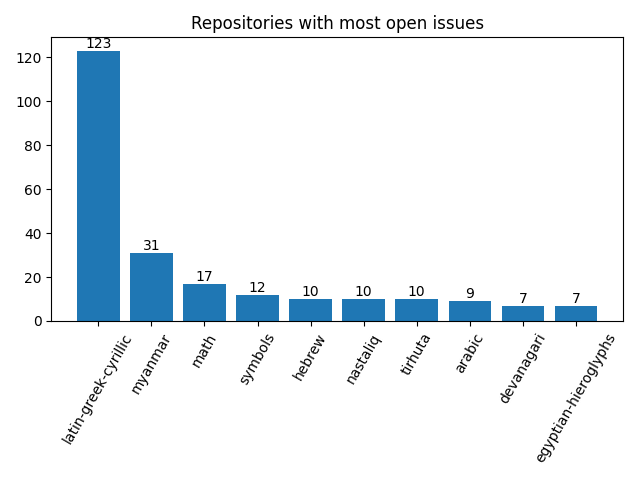
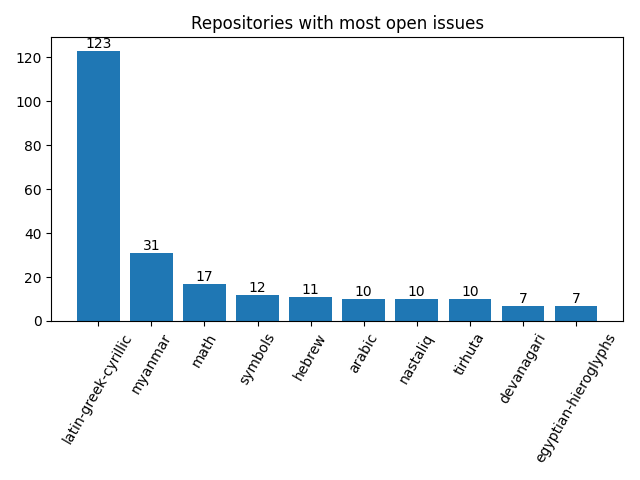
Apply automatic changes

diff --git a/docs/analytics.html b/docs/analytics.html
@@ -84,8 +84,8 @@ td .material-icons { display:inline-flex; vertical-align: top; font-size:1.1rem;
 						</tr>
 						<tr>
 							<td>Apr</td>
-							<td>7</td>
-							<td>3</td>
+							<td>11</td>
+							<td>5</td>
 						</tr>
 					</table>
 				</div>
@@ -129,6 +129,12 @@ td .material-icons { display:inline-flex; vertical-align: top; font-size:1.1rem;
 							<td>
 								<a href="http://github.com/notofonts/hebrew/issues">hebrew</a>
 							</td>
+							<td>11</td>
+						</tr>
+						<tr>
+							<td>
+								<a href="http://github.com/notofonts/arabic/issues">arabic</a>
+							</td>
 							<td>10</td>
 						</tr>
 						<tr>
@@ -142,12 +148,6 @@ td .material-icons { display:inline-flex; vertical-align: top; font-size:1.1rem;
 								<a href="http://github.com/notofonts/tirhuta/issues">tirhuta</a>
 							</td>
 							<td>10</td>
-						</tr>
-						<tr>
-							<td>
-								<a href="http://github.com/notofonts/arabic/issues">arabic</a>
-							</td>
-							<td>9</td>
 						</tr>
 						<tr>
 							<td>
@@ -176,13 +176,13 @@ td .material-icons { display:inline-flex; vertical-align: top; font-size:1.1rem;
 				<tr>
 					<td>1</td>
 					<td>
-						<a href="http://github.com/notofonts/armenian/issues">armenian</a>,  						<a href="http://github.com/notofonts/bamum/issues">bamum</a>,  						<a href="http://github.com/notofonts/canadian-aboriginal/issues">canadian-aboriginal</a>,  						<a href="http://github.com/notofonts/chakma/issues">chakma</a>,  						<a href="http://github.com/notofonts/chorasmian/issues">chorasmian</a>,  						<a href="http://github.com/notofonts/cuneiform/issues">cuneiform</a>,  						<a href="http://github.com/notofonts/deseret/issues">deseret</a>,  						<a href="http://github.com/notofonts/dogra/issues">dogra</a>,  						<a href="http://github.com/notofonts/duployan/issues">duployan</a>,  						<a href="http://github.com/notofonts/elbasan/issues">elbasan</a>,  						<a href="http://github.com/notofonts/ethiopic/issues">ethiopic</a>,  						<a href="http://github.com/notofonts/hanunoo/issues">hanunoo</a>,  						<a href="http://github.com/notofonts/kharoshthi/issues">kharoshthi</a>,  						<a href="http://github.com/notofonts/khitan-small-script/issues">khitan-small-script</a>,  						<a href="http://github.com/notofonts/khudawadi/issues">khudawadi</a>,  						<a href="http://github.com/notofonts/lydian/issues">lydian</a>,  						<a href="http://github.com/notofonts/meetei-mayek/issues">meetei-mayek</a>,  						<a href="http://github.com/notofonts/miao/issues">miao</a>,  						<a href="http://github.com/notofonts/mongolian/issues">mongolian</a>,  						<a href="http://github.com/notofonts/multani/issues">multani</a>,  						<a href="http://github.com/notofonts/music/issues">music</a>,  						<a href="http://github.com/notofonts/nko/issues">nko</a>,  						<a href="http://github.com/notofonts/old-italic/issues">old-italic</a>,  						<a href="http://github.com/notofonts/old-turkic/issues">old-turkic</a>,  						<a href="http://github.com/notofonts/oriya/issues">oriya</a>,  						<a href="http://github.com/notofonts/pahawh-hmong/issues">pahawh-hmong</a>,  						<a href="http://github.com/notofonts/phags-pa/issues">phags-pa</a>,  						<a href="http://github.com/notofonts/rejang/issues">rejang</a>,  						<a href="http://github.com/notofonts/saurashtra/issues">saurashtra</a>,  						<a href="http://github.com/notofonts/sogdian/issues">sogdian</a>,  						<a href="http://github.com/notofonts/sundanese/issues">sundanese</a>,  						<a href="http://github.com/notofonts/tai-le/issues">tai-le</a>,  						<a href="http://github.com/notofonts/tai-tham/issues">tai-tham</a>,  						<a href="http://github.com/notofonts/takri/issues">takri</a>,  						<a href="http://github.com/notofonts/tangsa/issues">tangsa</a> 
+						<a href="http://github.com/notofonts/armenian/issues">armenian</a>,  						<a href="http://github.com/notofonts/bamum/issues">bamum</a>,  						<a href="http://github.com/notofonts/canadian-aboriginal/issues">canadian-aboriginal</a>,  						<a href="http://github.com/notofonts/chakma/issues">chakma</a>,  						<a href="http://github.com/notofonts/chorasmian/issues">chorasmian</a>,  						<a href="http://github.com/notofonts/cuneiform/issues">cuneiform</a>,  						<a href="http://github.com/notofonts/deseret/issues">deseret</a>,  						<a href="http://github.com/notofonts/dogra/issues">dogra</a>,  						<a href="http://github.com/notofonts/duployan/issues">duployan</a>,  						<a href="http://github.com/notofonts/elbasan/issues">elbasan</a>,  						<a href="http://github.com/notofonts/ethiopic/issues">ethiopic</a>,  						<a href="http://github.com/notofonts/hanunoo/issues">hanunoo</a>,  						<a href="http://github.com/notofonts/imperial-aramaic/issues">imperial-aramaic</a>,  						<a href="http://github.com/notofonts/kharoshthi/issues">kharoshthi</a>,  						<a href="http://github.com/notofonts/khitan-small-script/issues">khitan-small-script</a>,  						<a href="http://github.com/notofonts/khudawadi/issues">khudawadi</a>,  						<a href="http://github.com/notofonts/lydian/issues">lydian</a>,  						<a href="http://github.com/notofonts/meetei-mayek/issues">meetei-mayek</a>,  						<a href="http://github.com/notofonts/miao/issues">miao</a>,  						<a href="http://github.com/notofonts/mongolian/issues">mongolian</a>,  						<a href="http://github.com/notofonts/multani/issues">multani</a>,  						<a href="http://github.com/notofonts/music/issues">music</a>,  						<a href="http://github.com/notofonts/nko/issues">nko</a>,  						<a href="http://github.com/notofonts/old-italic/issues">old-italic</a>,  						<a href="http://github.com/notofonts/old-turkic/issues">old-turkic</a>,  						<a href="http://github.com/notofonts/oriya/issues">oriya</a>,  						<a href="http://github.com/notofonts/pahawh-hmong/issues">pahawh-hmong</a>,  						<a href="http://github.com/notofonts/phags-pa/issues">phags-pa</a>,  						<a href="http://github.com/notofonts/rejang/issues">rejang</a>,  						<a href="http://github.com/notofonts/saurashtra/issues">saurashtra</a>,  						<a href="http://github.com/notofonts/sogdian/issues">sogdian</a>,  						<a href="http://github.com/notofonts/sundanese/issues">sundanese</a>,  						<a href="http://github.com/notofonts/tai-le/issues">tai-le</a>,  						<a href="http://github.com/notofonts/tai-tham/issues">tai-tham</a>,  						<a href="http://github.com/notofonts/takri/issues">takri</a>,  						<a href="http://github.com/notofonts/tangsa/issues">tangsa</a>,  						<a href="http://github.com/notofonts/tangut/issues">tangut</a> 
 					</td>
 				</tr>
 				<tr>
 					<td>2</td>
 					<td>
-						<a href="http://github.com/notofonts/brahmi/issues">brahmi</a>,  						<a href="http://github.com/notofonts/coptic/issues">coptic</a>,  						<a href="http://github.com/notofonts/georgian/issues">georgian</a>,  						<a href="http://github.com/notofonts/glagolitic/issues">glagolitic</a>,  						<a href="http://github.com/notofonts/grantha/issues">grantha</a>,  						<a href="http://github.com/notofonts/old-hungarian-ui/issues">old-hungarian-ui</a>,  						<a href="http://github.com/notofonts/sign-writing/issues">sign-writing</a>,  						<a href="http://github.com/notofonts/tagalog/issues">tagalog</a>,  						<a href="http://github.com/notofonts/tamil/issues">tamil</a>,  						<a href="http://github.com/notofonts/tangut/issues">tangut</a> 
+						<a href="http://github.com/notofonts/brahmi/issues">brahmi</a>,  						<a href="http://github.com/notofonts/coptic/issues">coptic</a>,  						<a href="http://github.com/notofonts/georgian/issues">georgian</a>,  						<a href="http://github.com/notofonts/glagolitic/issues">glagolitic</a>,  						<a href="http://github.com/notofonts/grantha/issues">grantha</a>,  						<a href="http://github.com/notofonts/old-hungarian-ui/issues">old-hungarian-ui</a>,  						<a href="http://github.com/notofonts/sign-writing/issues">sign-writing</a>,  						<a href="http://github.com/notofonts/tagalog/issues">tagalog</a>,  						<a href="http://github.com/notofonts/tamil/issues">tamil</a> 
 					</td>
 				</tr>
 				<tr>
@@ -194,37 +194,31 @@ td .material-icons { display:inline-flex; vertical-align: top; font-size:1.1rem;
 				<tr>
 					<td>4</td>
 					<td>
-						<a href="http://github.com/notofonts/batak/issues">batak</a>,  						<a href="http://github.com/notofonts/javanese/issues">javanese</a>,  						<a href="http://github.com/notofonts/soyombo/issues">soyombo</a>,  						<a href="http://github.com/notofonts/tibetan/issues">tibetan</a> 
+						<a href="http://github.com/notofonts/batak/issues">batak</a>,  						<a href="http://github.com/notofonts/javanese/issues">javanese</a>,  						<a href="http://github.com/notofonts/old-hungarian/issues">old-hungarian</a>,  						<a href="http://github.com/notofonts/soyombo/issues">soyombo</a>,  						<a href="http://github.com/notofonts/tibetan/issues">tibetan</a> 
 					</td>
 				</tr>
 				<tr>
 					<td>5</td>
 					<td>
-						<a href="http://github.com/notofonts/bengali/issues">bengali</a>,  						<a href="http://github.com/notofonts/bhaiksuki/issues">bhaiksuki</a>,  						<a href="http://github.com/notofonts/gurmukhi/issues">gurmukhi</a>,  						<a href="http://github.com/notofonts/kawi/issues">kawi</a>,  						<a href="http://github.com/notofonts/old-hungarian/issues">old-hungarian</a>,  						<a href="http://github.com/notofonts/syloti-nagri/issues">syloti-nagri</a> 
+						<a href="http://github.com/notofonts/bengali/issues">bengali</a>,  						<a href="http://github.com/notofonts/bhaiksuki/issues">bhaiksuki</a>,  						<a href="http://github.com/notofonts/gurmukhi/issues">gurmukhi</a>,  						<a href="http://github.com/notofonts/kawi/issues">kawi</a>,  						<a href="http://github.com/notofonts/syloti-nagri/issues">syloti-nagri</a> 
 					</td>
 				</tr>
 				<tr>
 					<td>6</td>
 					<td>
-						<a href="http://github.com/notofonts/dives-akuru/issues">dives-akuru</a>,  						<a href="http://github.com/notofonts/gujarati/issues">gujarati</a>,  						<a href="http://github.com/notofonts/modi/issues">modi</a>,  						<a href="http://github.com/notofonts/syriac/issues">syriac</a> 
+						<a href="http://github.com/notofonts/dives-akuru/issues">dives-akuru</a>,  						<a href="http://github.com/notofonts/gujarati/issues">gujarati</a>,  						<a href="http://github.com/notofonts/modi/issues">modi</a> 
 					</td>
 				</tr>
 				<tr>
 					<td>7</td>
 					<td>
-						<a href="http://github.com/notofonts/devanagari/issues">devanagari</a>,  						<a href="http://github.com/notofonts/egyptian-hieroglyphs/issues">egyptian-hieroglyphs</a>,  						<a href="http://github.com/notofonts/kaithi/issues">kaithi</a>,  						<a href="http://github.com/notofonts/kannada/issues">kannada</a>,  						<a href="http://github.com/notofonts/malayalam/issues">malayalam</a> 
-					</td>
-				</tr>
-				<tr>
-					<td>9</td>
-					<td>
-						<a href="http://github.com/notofonts/arabic/issues">arabic</a> 
+						<a href="http://github.com/notofonts/devanagari/issues">devanagari</a>,  						<a href="http://github.com/notofonts/egyptian-hieroglyphs/issues">egyptian-hieroglyphs</a>,  						<a href="http://github.com/notofonts/kaithi/issues">kaithi</a>,  						<a href="http://github.com/notofonts/kannada/issues">kannada</a>,  						<a href="http://github.com/notofonts/malayalam/issues">malayalam</a>,  						<a href="http://github.com/notofonts/syriac/issues">syriac</a> 
 					</td>
 				</tr>
 				<tr>
 					<td>10</td>
 					<td>
-						<a href="http://github.com/notofonts/hebrew/issues">hebrew</a>,  						<a href="http://github.com/notofonts/nastaliq/issues">nastaliq</a>,  						<a href="http://github.com/notofonts/tirhuta/issues">tirhuta</a> 
+						<a href="http://github.com/notofonts/arabic/issues">arabic</a>,  						<a href="http://github.com/notofonts/nastaliq/issues">nastaliq</a>,  						<a href="http://github.com/notofonts/tirhuta/issues">tirhuta</a> 
 					</td>
 				</tr>
 			</table>
@@ -241,11 +235,11 @@ td .material-icons { display:inline-flex; vertical-align: top; font-size:1.1rem;
 							<td>
 									<a href="http://github.com/notofonts/latin-greek-cyrillic/issues">latin-greek-cyrillic</a>: 123, 
 
-									<a href="http://github.com/notofonts/hebrew/issues">hebrew</a>: 10, 
+									<a href="http://github.com/notofonts/hebrew/issues">hebrew</a>: 11, 
+
+									<a href="http://github.com/notofonts/arabic/issues">arabic</a>: 10, 
 
 									<a href="http://github.com/notofonts/nastaliq/issues">nastaliq</a>: 10, 
-
-									<a href="http://github.com/notofonts/arabic/issues">arabic</a>: 9, 
 
 									<a href="http://github.com/notofonts/devanagari/issues">devanagari</a>: 7, 
 
@@ -289,9 +283,9 @@ td .material-icons { display:inline-flex; vertical-align: top; font-size:1.1rem;
 
 									<a href="http://github.com/notofonts/symbols/issues">symbols</a>: 12, 
 
-									<a href="http://github.com/notofonts/modi/issues">modi</a>: 6, 
+									<a href="http://github.com/notofonts/syriac/issues">syriac</a>: 7, 
 
-									<a href="http://github.com/notofonts/syriac/issues">syriac</a>: 6, 
+									<a href="http://github.com/notofonts/modi/issues">modi</a>: 6, 
 
 									<a href="http://github.com/notofonts/syloti-nagri/issues">syloti-nagri</a>: 5, 
 
@@ -367,7 +361,7 @@ td .material-icons { display:inline-flex; vertical-align: top; font-size:1.1rem;
 
 									<a href="http://github.com/notofonts/kawi/issues">kawi</a>: 5, 
 
-									<a href="http://github.com/notofonts/old-hungarian/issues">old-hungarian</a>: 5, 
+									<a href="http://github.com/notofonts/old-hungarian/issues">old-hungarian</a>: 4, 
 
 									<a href="http://github.com/notofonts/soyombo/issues">soyombo</a>: 4, 
 
@@ -403,11 +397,11 @@ td .material-icons { display:inline-flex; vertical-align: top; font-size:1.1rem;
 
 									<a href="http://github.com/notofonts/nandinagari/issues">nandinagari</a>: 3, 
 
-									<a href="http://github.com/notofonts/tangut/issues">tangut</a>: 2, 
-
 									<a href="http://github.com/notofonts/chorasmian/issues">chorasmian</a>: 1, 
 
 									<a href="http://github.com/notofonts/elbasan/issues">elbasan</a>: 1, 
+
+									<a href="http://github.com/notofonts/imperial-aramaic/issues">imperial-aramaic</a>: 1, 
 
 									<a href="http://github.com/notofonts/kharoshthi/issues">kharoshthi</a>: 1, 
 
@@ -417,7 +411,9 @@ td .material-icons { display:inline-flex; vertical-align: top; font-size:1.1rem;
 
 									<a href="http://github.com/notofonts/old-turkic/issues">old-turkic</a>: 1, 
 
-									<a href="http://github.com/notofonts/sogdian/issues">sogdian</a>: 1
+									<a href="http://github.com/notofonts/sogdian/issues">sogdian</a>: 1, 
+
+									<a href="http://github.com/notofonts/tangut/issues">tangut</a>: 1
 							</td>
 						</tr>
 					</table>
